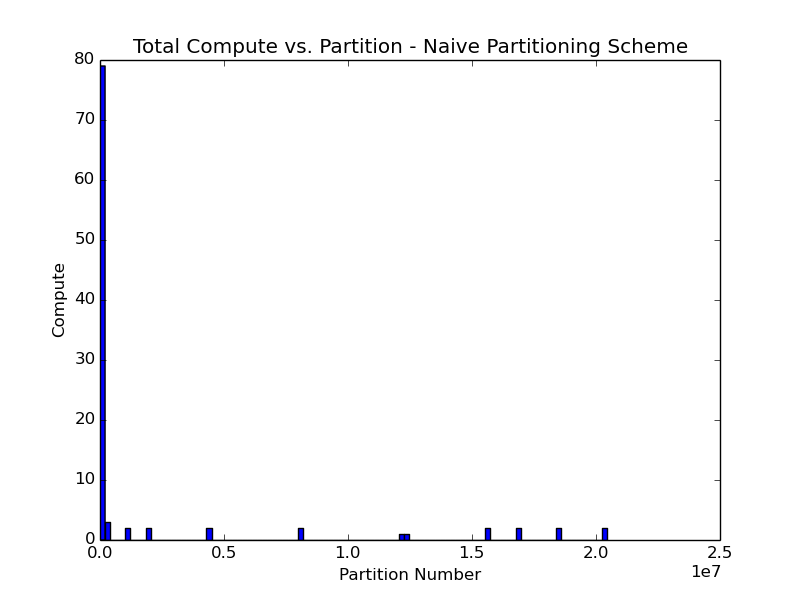
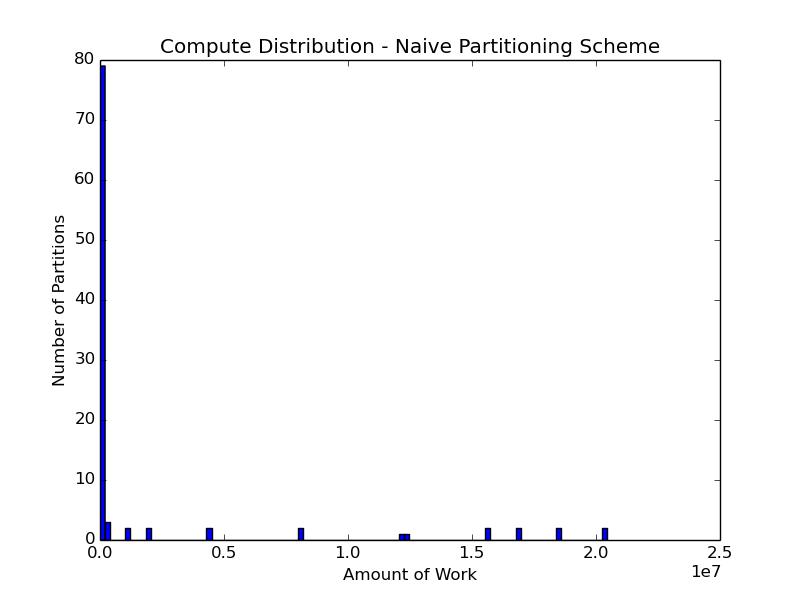
Fixed histogram labeling

Changed region(s): [[0.1562, 0.06, 0.875, 0.09], [0.4062, 0.93, 0.5938, 0.99], [0.0625, 0.36, 0.0938, 0.66]]

diff --git a/HW1/P2/P2a.py b/HW1/P2/P2a.py
@@ -13,9 +13,10 @@ NX = NY = 2000
 if __name__ == "__main__":
 
     # Declare our SparkContext
-    sc = SparkContext("local", "madelbrot")
+    sc = SparkContext("local", "mandelbrot")
 
     # Get the i, j pixel arrays
+    # Make sure they have 100 partitions (cartesian multiplies the partitions of each)
     xs = sc.parallelize(range(0, NX), 10)
     ys = sc.parallelize(range(0, NY), 10)
 
@@ -28,9 +29,9 @@ if __name__ == "__main__":
     # Generate plots to demonstrate work per partitions
     partition_work = sum_values_for_partitions(pixels_and_counts)
     plt.hist(partition_work.take(partition_work.count()), bins=100)
-    plt.xlabel('Partition Number')
-    plt.ylabel('Compute')
-    plt.title('Total Compute vs. Partition - Naive Partitioning Scheme')
+    plt.xlabel('Amount of Work')
+    plt.ylabel('Number of Partitions')
+    plt.title('Compute Distribution - Naive Partitioning Scheme')
     plt.savefig('part_a.png')
 
     draw_image(pixels_and_counts)

diff --git a/HW1/P2/P2b.py b/HW1/P2/P2b.py
@@ -31,9 +31,9 @@ if __name__ == "__main__":
     # And generate our histogram
     partition_work = sum_values_for_partitions(pixels_and_counts)
     plt.hist(partition_work.take(partition_work.count()), bins=100)
-    plt.xlabel('Partition Number')
-    plt.ylabel('Compute')
-    plt.title('Total Compute vs. Partition - Random Partitioning Scheme')
+    plt.xlabel('Amount of Work')
+    plt.ylabel('Number of Partitions')
+    plt.title('Compute Distribution - Random Partitioning Scheme')
     plt.savefig('part_b.png')
 
     draw_image(pixels_and_counts)
